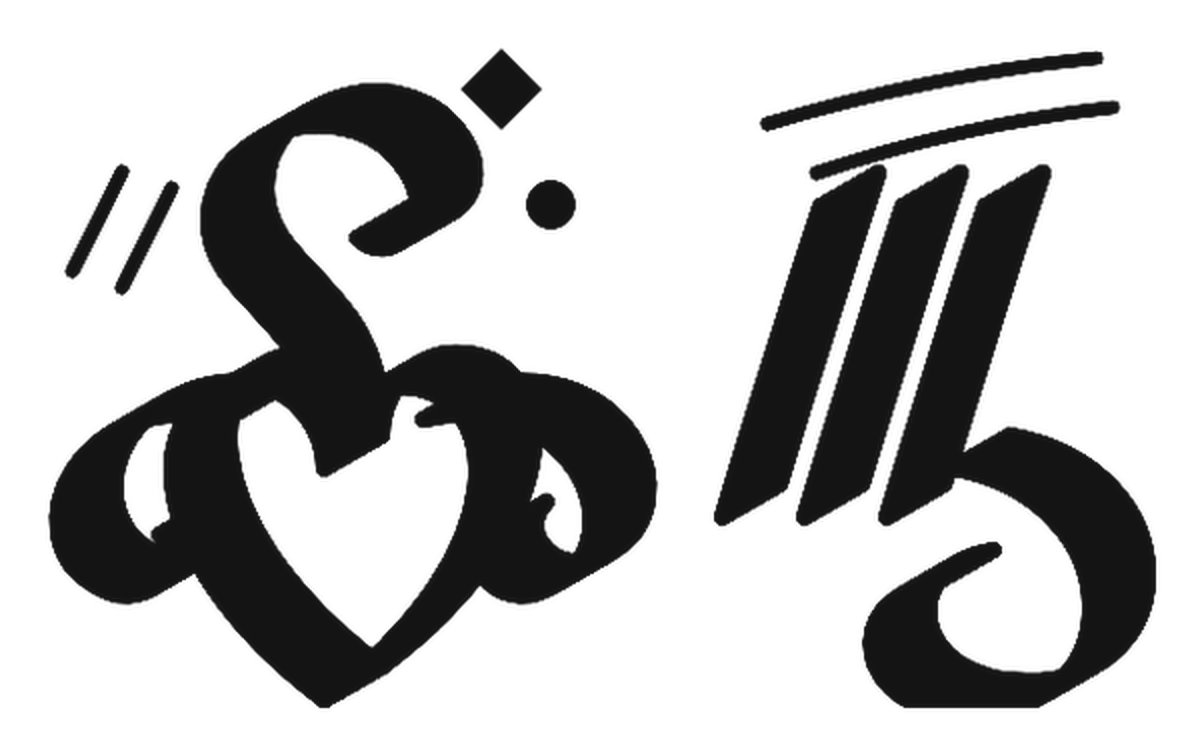
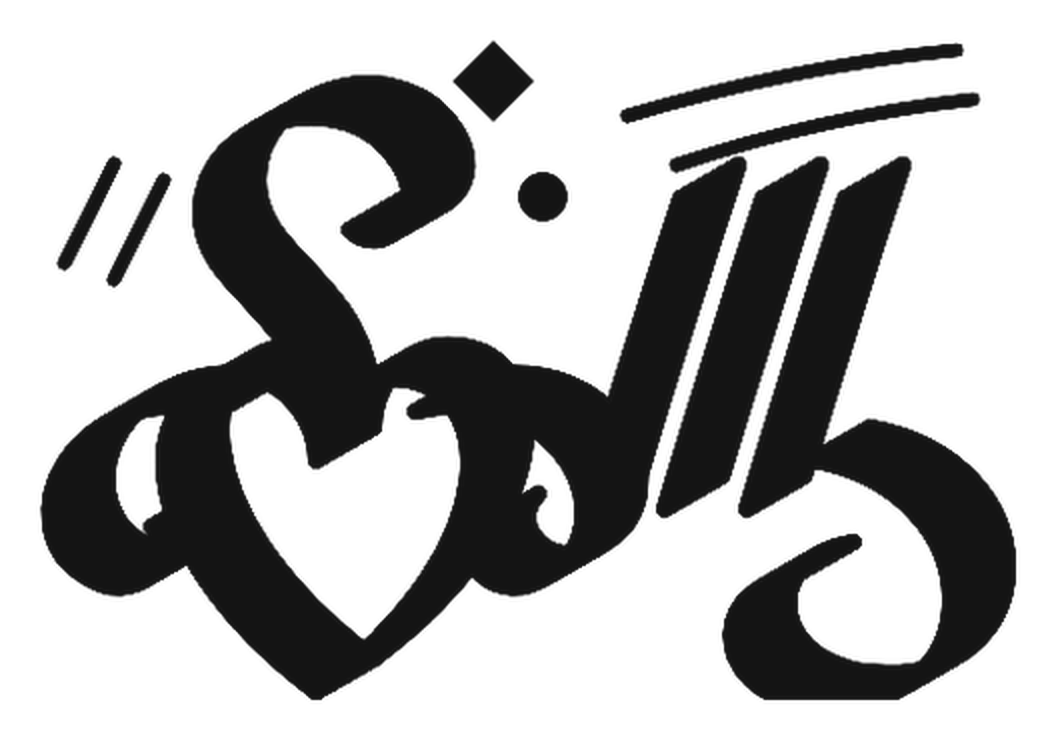
Signature: his pick, version A (the two glyphs flow together)
Claude-Session: https://claude.ai/code/session_015KZY2ACgMJwaLWJ2RdGHfS

diff --git a/owner_own/signature/README.md b/owner_own/signature/README.md
@@ -1,8 +1,9 @@
 # Gavin's informal signature (2026-10-09)
 
 His own glyphs 15 and 18 from his alphabet ("the numbers 15 and 18 make up my signature in that alphabet"),
-cut unchanged from gavin_alphabet_transparent.png and set side by side. Nothing redrawn or invented.
+cut unchanged from gavin_alphabet_transparent.png. Version A (his pick, 2026-10-09): 18 tucked in so its strokes
+cross 15's right loop and the two flow together. Only his strokes; nothing redrawn or added.
 - `Gavin_signature_ink_blue@2x.png`, `..._ink_black@2x.png`: transparent, for light pages.
 - `Gavin_signature_white@2x.png`: transparent, for dark pages.
-- `Gavin_signature.svg`: a traced vector copy, sharp at any size (black).
+- `Gavin_signature.svg`: a traced vector copy, sharp at any size (blue ink).
 For informal signing only; legal papers get his usual signature.
